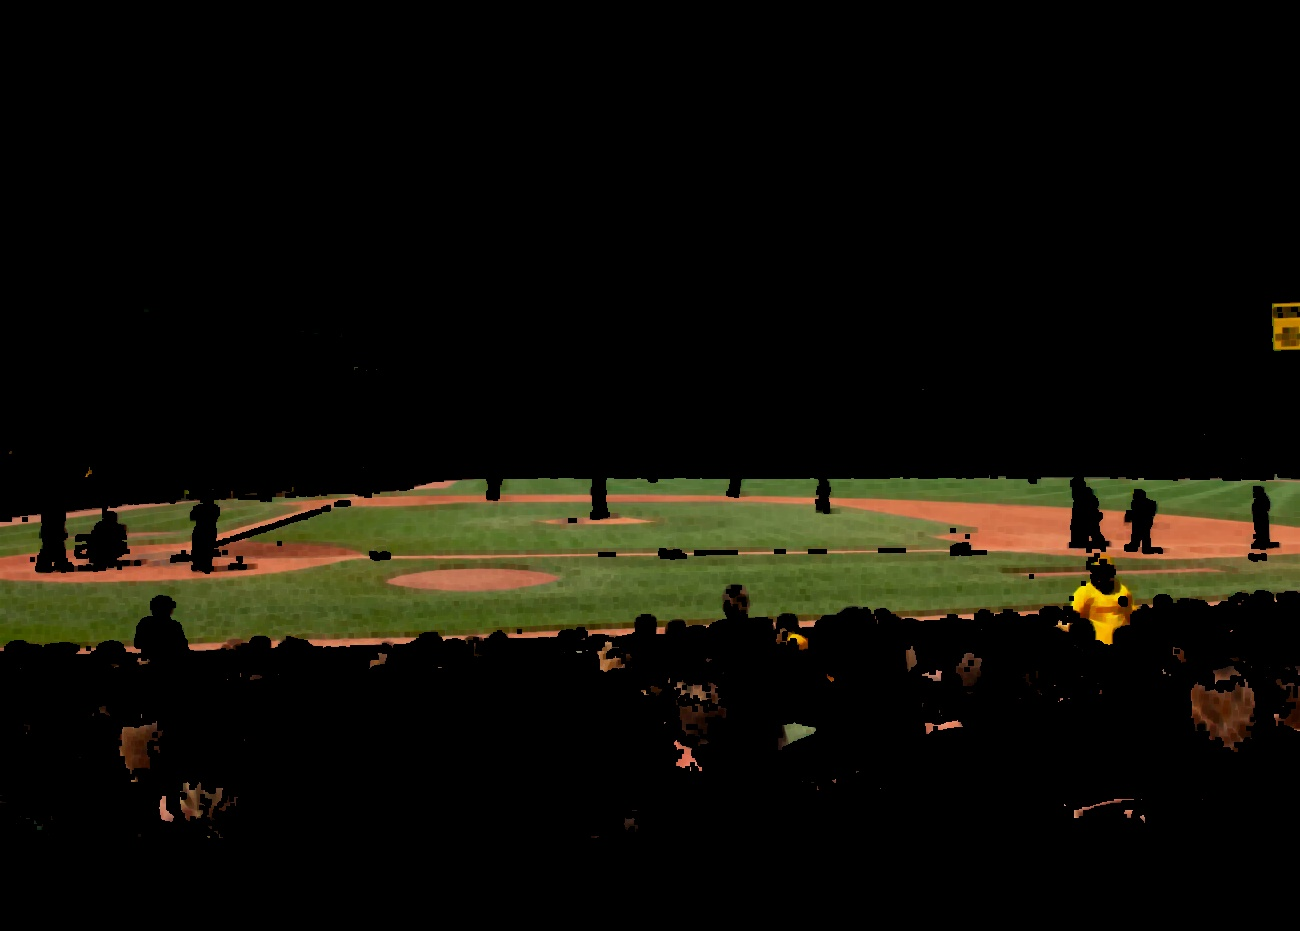
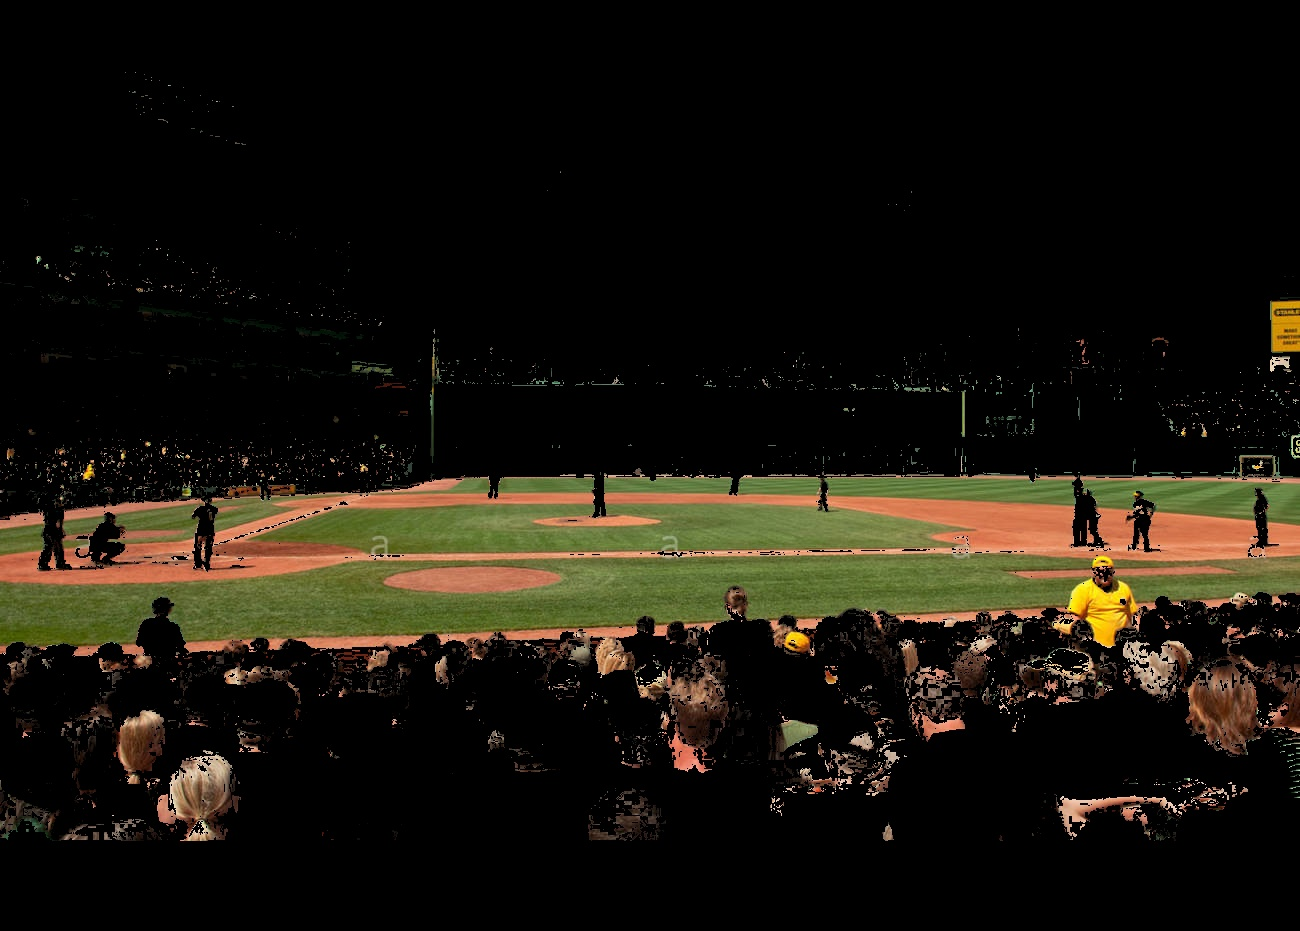
continue playing around; still need fixes for shadows and not finding far away baseball pants

diff --git a/TestPersonDetection/personDetectionTesting.py b/TestPersonDetection/personDetectionTesting.py
@@ -6,11 +6,18 @@ import numpy
 
 class PlayerFinder(object):
     def __init__(self):
-        self.lower_green = numpy.array((21, 45, 15), dtype=numpy.uint8)
+        self.lower_green = numpy.array((10, 50, 15), dtype=numpy.uint8)
         self.upper_green = numpy.array((72, 255, 242), dtype=numpy.uint8)
 
-        self.lower_brown = numpy.array((5, 95, 25), dtype=numpy.uint8)
+        self.lower_brown = numpy.array((5, 110, 25), dtype=numpy.uint8)
         self.upper_brown = numpy.array((30, 255, 255), dtype=numpy.uint8)
+
+        """#turns a dark purple color sometimes, so try this:
+        self.lower_shadow_brown = numpy.array((122, 45, 33), dtype=numpy.uint8)
+        self.upper_shadow_brown = numpy.array((238, 130, 100), dtype=numpy.uint8)
+
+        self.lower_field = numpy.array((1, 45, 14), dtype=numpy.uint8)
+        self.upper_field = numpy.array((72, 255, 242), dtype=numpy.uint8)"""
 
         # pixel area of the bounding rectangle - just used to remove stupidly small regions
         self.contour_min_area = 100
@@ -43,21 +50,29 @@ class PlayerFinder(object):
         #Define a mask ranging from lower to uppper
         mask_green = cv2.inRange(hsv, self.lower_green, self.upper_green)
         mask_brown = cv2.inRange(hsv, self.lower_brown, self.upper_brown)
+        #mask_shadow_brown = cv2.inRange(hsv, self.lower_shadow_brown, self.upper_brown)
+        #mask_field = cv2.inRange(hsv, self.lower_field, self.upper_field)
         #Do masking
         #mask = cv2.bitwise_or(mask_green, mask_brown)
-        #convert to hsv to gray
 
         mask = cv2.bitwise_or(mask_green, mask_brown)#cv2.bitwise_and(image, image, mask=mask_green)
+        #mask = cv2.bitwise_or(mask, mask_shadow_brown)
         
-        target = cv2.bitwise_and(image,image, mask=mask)
+        res = cv2.bitwise_and(image,image, mask=mask)
+
+        #res_gray = cv2.cvtColor(res,cv2.COLOR_BGR2GRAY)
 
         #Defining a kernel to do morphological operation in threshold image to 
         #get better output.
-        kernel = numpy.ones((5,5), numpy.uint8)
-        erosion = cv2.erode(target, kernel, iterations = 1)
 
+        #dilate = cv2.dilate(res, numpy.ones((2,2), numpy.uint8), iterations = 1)
+        erosion = cv2.erode(res, numpy.ones((10,10), numpy.uint8), iterations = 2)
 
-        return erosion
+        #kernel = numpy.ones((13,13),numpy.uint8)
+        #hresh = cv2.threshold(res_gray, 127, 255, cv2.THRESH_BINARY_INV |  cv2.THRESH_OTSU)[1]
+        #thresh = cv2.morphologyEx(thresh, cv2.MORPH_CLOSE, kernel)
+
+        return res
         """
          #find contours in threshold image     
         _, self.contours, _ = cv2.findContours(res_gray, cv2.RETR_TREE, cv2.CHAIN_APPROX_SIMPLE)
